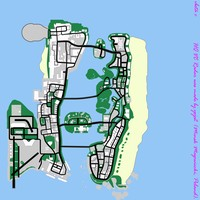
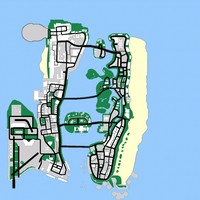
feat(map): use SAMapExpander VC radar tiles

diff --git a/build_map.py b/build_map.py
@@ -3,10 +3,9 @@ import sys
 from PIL import Image
 
 HERE = os.path.dirname(os.path.abspath(__file__))
-TILE_DIR = sys.argv[1] if len(sys.argv) > 1 else os.path.join(HERE, "..", "vcrp-launcher", "mods", "modloader", "MapExpander", "MapExpander", "tiles", "vicecity")
+TILE_DIR = sys.argv[1] if len(sys.argv) > 1 else os.path.join(HERE, "..", "SAMapExpander", "output", "MapExpander", "tiles", "vicecity")
 
 TILES = 8
-TILE_PX = 512
 TILE_UNITS = 500
 GRID_MIN_X = -2000
 GRID_MAX_Y = 2000
@@ -17,6 +16,8 @@ MAP_MIN_X = 3998
 MAP_MAX_Y = 3053
 MAP_SIZE = 4002
 MINIMAP_SIZE = 200
+
+TILE_PX = Image.open(os.path.join(TILE_DIR, "radar00.png")).width
 
 stitched = Image.new("RGB", (TILES * TILE_PX, TILES * TILE_PX))
 for row in range(TILES):

diff --git a/README.md b/README.md
@@ -22,9 +22,9 @@ Zones autosave to the browser's localStorage.
 python build_map.py [path\to\radar\tiles]
 ```
 
-Stitches the 64 VC radar tiles (`radar00.png`..`radar63.png`, 512px, 500 units each) into `img/vc-map.jpg` (1px = 1 unit) and `img/vc-map-200.jpg`. Requires Pillow. Change `ORIGIN_X`/`ORIGIN_Y` and `GZE.mapOrigin` in `gze.js` if the map placement changes.
+Stitches the 64 VC radar tiles (`radar00.png`..`radar63.png`, 500 units each, default `..\SAMapExpander\output\MapExpander\tiles\vicecity`) into `img/vc-map.jpg` (1px = 1 unit) and `img/vc-map-200.jpg`. Requires Pillow. Change `ORIGIN_X`/`ORIGIN_Y` and `GZE.mapOrigin` in `gze.js` if the map placement changes.
 
 ## Credits
 
 - Original editor: Prineside DevTools (dev.prineside.com)
-- Radar tiles: HQ VC Radar by yojo2
+- Radar tiles: SAMapExpander (VC radar)
